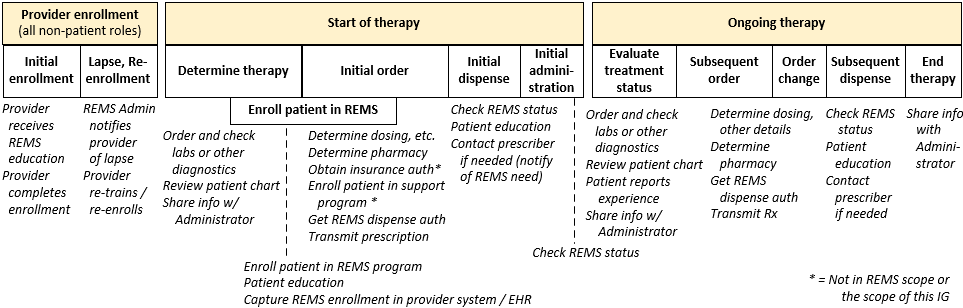
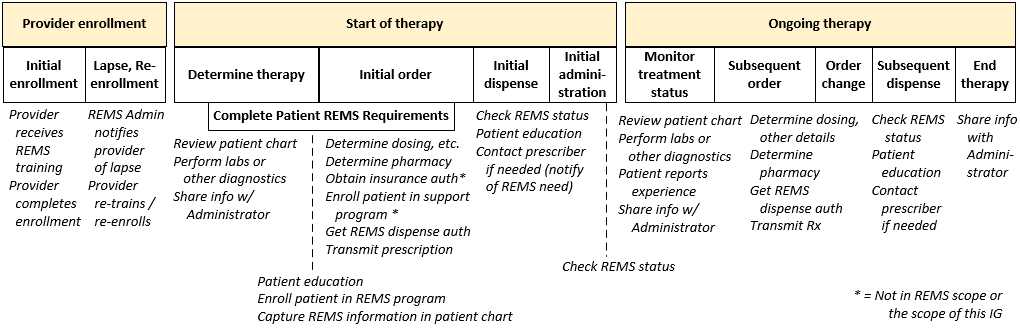
Additional updates to REMS Steps page

diff --git a/input/pagecontent/process.md b/input/pagecontent/process.md
@@ -1,11 +1,27 @@
-### REMS Process Steps and Timeframes
+### Process Steps and Timeframes
 REMS program requirements vary widely for different medications. Some programs focus on making providers and patients aware of potential risks, while others require additional steps, authorizations, reporting or other actions at the start of treatment or during ongoing therapy.
 
-This IG uses the following set of timeframes and steps to provide context to its guidance. The aim is to provide enough detail to give direction and make necessary distinctions--but generalize enough so that references to a step or timeframe can cover the range of specific actions that participants might take for different REMS programs.
+This IG uses the following generalized set of timeframes and steps to provide context to its guidance. The aim is to provide enough detail to give direction and make necessary distinctions--but generalize enough so that references to a step or timeframe can cover the range of specific actions that participants might take for different REMS programs.
 
 <div>
 <figure class="figure">
-<figcaption class="figure-caption"><strong>Figure: REMS Program Steps and Timeframes</strong></figcaption>
+<figcaption class="figure-caption"><strong>Figure: Generalized REMS Process Flow</strong></figcaption>
+  <br />
+  <p>
+  <img src="flow.png" style="float:none">  
+  </p>
+</figure>
+</div>
+<p></p>
+
+<p></p>
+Additional details and possible variations for each step in the process flow are shown below.
+<p></p>
+
+<div>
+<figure class="figure">
+<figcaption class="figure-caption"><strong>Figure: REMS Process Activities</strong></figcaption>
+  <br />
   <p>
   <img src="steps.png" style="float:none">  
   </p>
@@ -13,9 +29,8 @@ This IG uses the following set of timeframes and steps to provide context to its
 </div>
 <p></p>
 
-<p></p>
 
-### Guide Focus Areas
+### Process Focus Areas
 
 **Reusable Patterns.** This guide establishes information sharing patterns that can be applied at multiple points in the REMS process outlined above. These patterns enable a REMS participant to implement a standard "interface" that can be called multiple times during a patient's therapy--using the same basic methods but with varying inputs and response content depending on the situation.
 - see [Architectural Approach](architecture.html) for more about the guide's approach.
